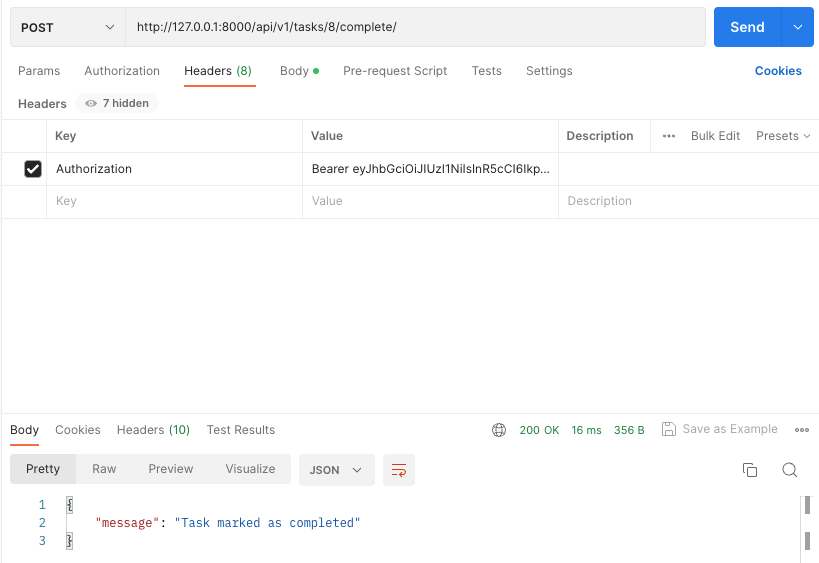
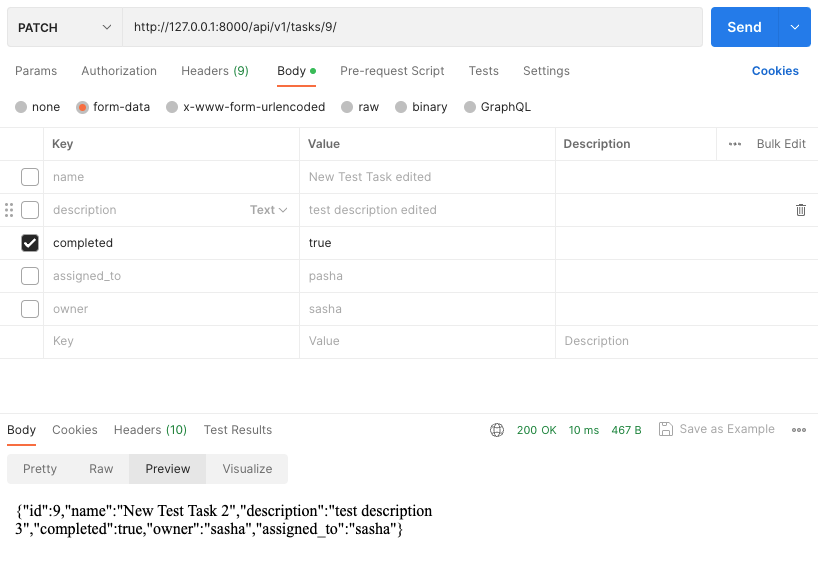
change PUT/PATCH methods for Tasks, update README.md

diff --git a/task_tracker/manager/views.py b/task_tracker/manager/views.py
@@ -1,41 +1,33 @@
-from rest_framework import viewsets, status
-from rest_framework.decorators import action
-from rest_framework.generics import get_object_or_404
+from rest_framework import viewsets
 from rest_framework.permissions import IsAuthenticated
 from rest_framework.response import Response
 from manager.models import Task
 from manager.serializers import TaskSerializer
-from manager.permissions import IsOwnerOrReadOnly, IsOwnerOrAssignedTo
-from accounts.models import CustomUser
+from manager.permissions import IsOwnerOrAssignedTo
 
 
 class TaskViewSet(viewsets.ModelViewSet):
     queryset = Task.objects.all()
     serializer_class = TaskSerializer
-    permission_classes = (IsAuthenticated, IsOwnerOrReadOnly, )
+    permission_classes = (IsAuthenticated, IsOwnerOrAssignedTo, )
 
-    @action(detail=True, methods=['post'], permission_classes=(IsOwnerOrAssignedTo,))
-    def complete(self, request, pk=None):
-        task = self.get_object()
-        task.completed = True
-        task.save()
-        return Response({'message': 'Task marked as completed'}, status=status.HTTP_200_OK)
+    def update(self, request, *args, **kwargs):
+        """
+        Overriding update method to exclude read only fields 'name' and 'owner'
+        """
+        kwargs['partial'] = True
+        instance = self.get_object()
+        serializer = self.get_serializer(instance, data=request.data, partial=kwargs['partial'])
+        serializer.is_valid(raise_exception=True)
+        validated_data = serializer.validated_data
+        read_only_fields = ('name', 'owner')
+        for field in read_only_fields:
+            validated_data.pop(field, None)
+        self.perform_update(serializer)
 
-    @action(detail=True, methods=['post'], permission_classes=(IsOwnerOrAssignedTo,))
-    def incomplete(self, request, pk=None):
-        task = self.get_object()
-        task.completed = False
-        task.save()
-        return Response({'message': 'Task marked as not completed'}, status=status.HTTP_200_OK)
+        if getattr(instance, '_prefetched_objects_cache', None):
+            # If 'prefetch_related' has been applied to a queryset, we need to
+            # forcibly invalidate the prefetch cache on the instance.
+            instance._prefetched_objects_cache = {}
 
-    @action(detail=True, methods=['post'], permission_classes=(IsOwnerOrAssignedTo,))
-    def delegate(self, request, pk=None):
-        task = self.get_object()
-        assigned_to = request.data.get('assigned_to')
-        if assigned_to:
-            user = get_object_or_404(CustomUser, username=assigned_to)
-            task.assigned_to = user
-            task.save()
-            return Response({'message': 'Task was delegated'}, status=status.HTTP_200_OK)
-        else:
-            return Response({'error': 'assigned_to field is required'}, status=status.HTTP_400_BAD_REQUEST)
+        return Response(serializer.data)

diff --git a/README.md b/README.md
@@ -16,9 +16,6 @@ The following API endpoints are available:
 <br>`PUT /api/v1/tasks/{id}/` - update task information (only owner or assignee).
 <br>`PATCH /api/v1/tasks/{id}/` - partially update task information (only owner or assignee).
 <br>`DELETE /api/v1/tasks/{id}/ `- delete a task (only owner).
-<br>`POST /api/v1/tasks/{id}/complete/` - mark a task as completed (only owner or assignee).
-<br>`POST /api/v1/tasks/{id}/incomplete/` - mark a task as incomplete (only owner or assignee).
-<br>`POST /api/v1/tasks/{id}/delegate/` - delegate a task to another user (only owner or assignee).
 
 ### Users
 `GET /api/v1/users/` - retrieve all users (any authenticated user).
@@ -87,7 +84,7 @@ Show all users
 Create new task
 ![](images/5_task_create.png)
 
-Mark the task completed (body is empty)
+Mark the task completed
 ![](images/6_task_complete.png)
 
 Delegate the task to another user
